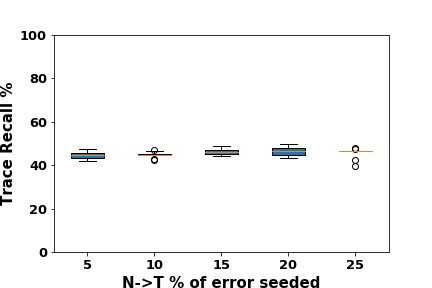
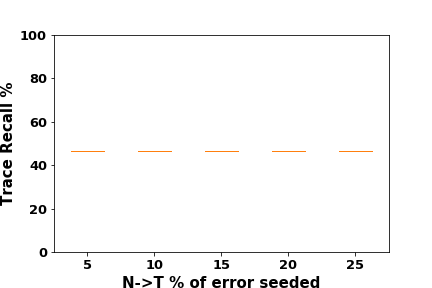
new

diff --git a/Paper2RandomForestSeeding.py b/Paper2RandomForestSeeding.py
@@ -67,7 +67,7 @@ def main():
     y_test={}
     
    
-    
+    '''
     path = 'TtoN'
     print_precision_recall(path)
     
@@ -79,16 +79,17 @@ def main():
     drawboxplots('Rec_T', TtoN5RecT, TtoN10RecT, TtoN15RecT, TtoN20RecT, TtoN25RecT, 'Trace Recall %', 
                  'T->N % of error seeded', './boxplots/TraceRecallVsTtoNError')
     drawboxplots('Rec_N', TtoN5RecN, TtoN10RecN, TtoN15RecN, TtoN20RecN, TtoN25RecN, 'NoTrace Recall %', 
-                 'T->N % of error seeded', './boxplots/NoTraceRecallVsTtoNError')
+                 'T->N % of error seeded', './boxplots/NoTraceRecallVsTtoNError')'''
+    path = 'NtoT'
+    print_precision_recall(path)
 
-
-    drawboxplots('Prec_T', TtoN5PrecT, TtoN10PrecT, TtoN15PrecT, TtoN20PrecT, TtoN25PrecT, 'Trace Precision %', 
+    drawboxplots('Prec_T', NtoT0_5PrecT, NtoT1PrecT, NtoT1_5PrecT, NtoT2PrecT, NtoT2_5PrecT, 'Trace Precision %', 
                  'N->T % of error seeded', './boxplots/TracePrecisionVsNtoTError')
-    drawboxplots('Prec_N', TtoN5PrecN, TtoN10PrecN, TtoN15PrecN, TtoN20PrecN, TtoN25PrecN, 'NoTrace Precision %', 
+    drawboxplots('Prec_N', NtoT0_5PrecN, NtoT1PrecN, NtoT1_5PrecN, NtoT2PrecN, NtoT2_5PrecN, 'NoTrace Precision %', 
                  'N->T % of error seeded', './boxplots/NoTracePrecisionVsNtoTError')
-    drawboxplots('Rec_T', TtoN5RecT, TtoN10RecT, TtoN15RecT, TtoN20RecT, TtoN25RecT, 'Trace Recall %', 
+    drawboxplots('Rec_T', NtoT0_5RecT, NtoT1RecT, NtoT1_5RecT, NtoT2RecT, NtoT2_5RecT, 'Trace Recall %', 
                  'N->T % of error seeded', './boxplots/TraceRecallVsNtoTError')
-    drawboxplots('Rec_N', TtoN5RecN, TtoN10RecN, TtoN15RecN, TtoN20RecN, TtoN25RecN, 'NoTrace Recall %', 
+    drawboxplots('Rec_N', NtoT0_5RecN, NtoT1RecN, NtoT1_5RecN, NtoT2RecN, NtoT2_5RecN, 'NoTrace Recall %', 
                  'N->T % of error seeded', './boxplots/NoTraceRecallVsNtoTError')
 
 def drawboxplots(prec_T, array1, array2, array3, array4, array5, ylabel, xlabel, figname):
